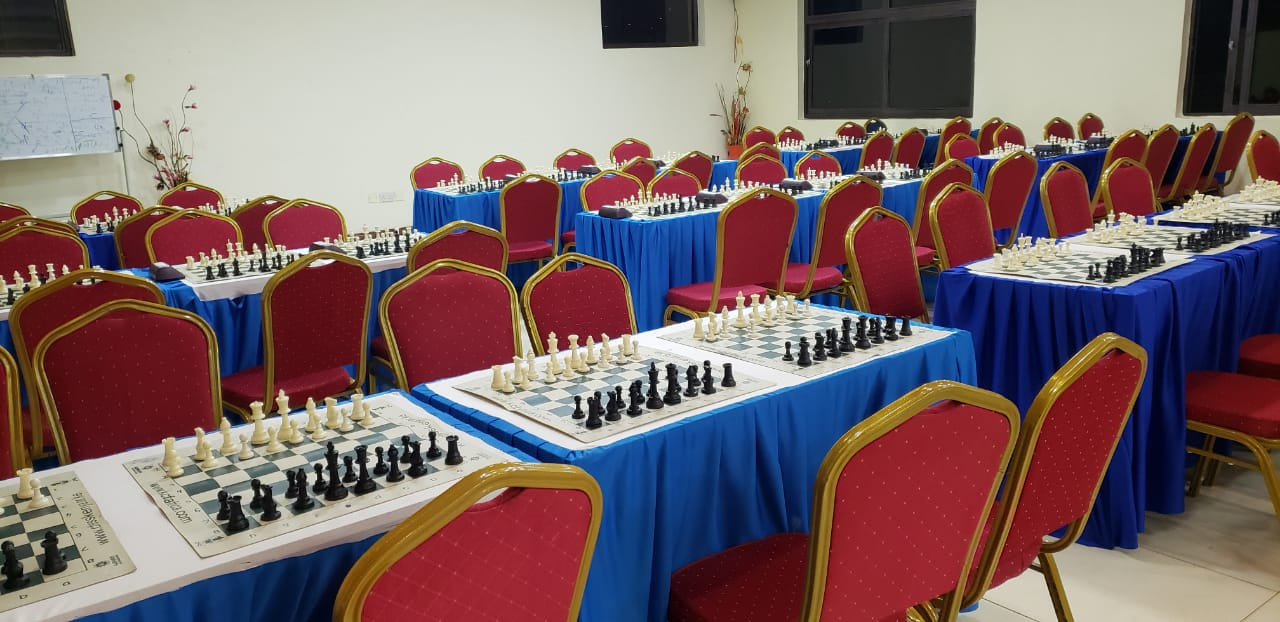
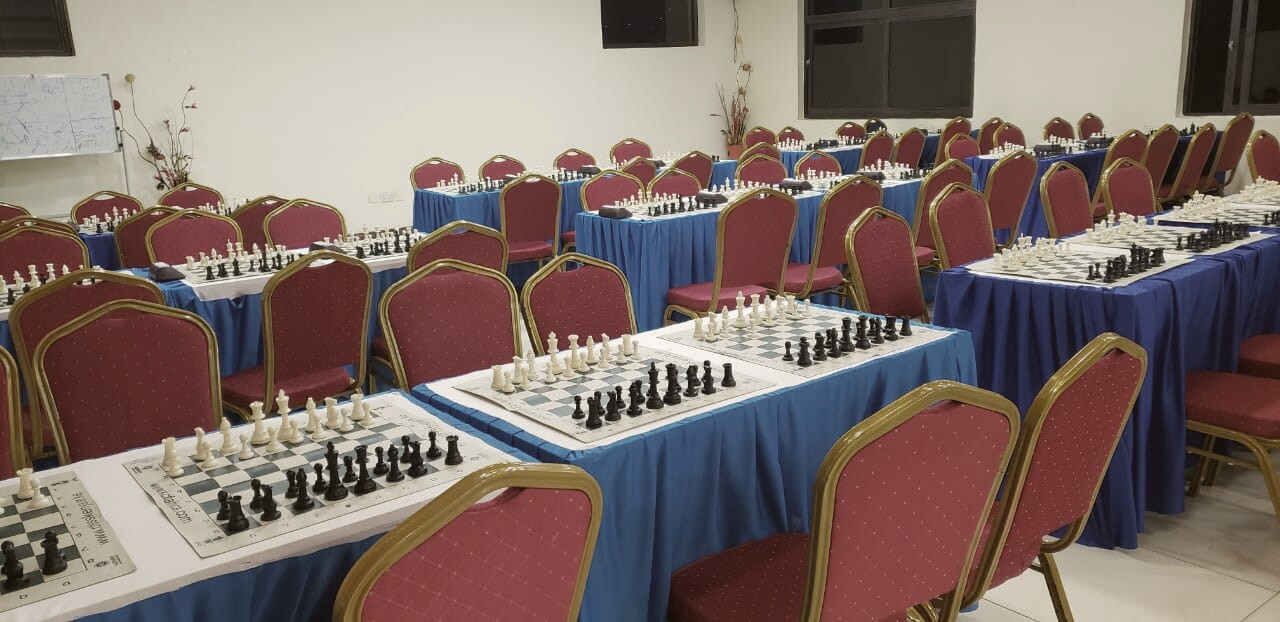
Photographs: harmonise the hall set, and stop repeating a picture on a page
* tournament-prep-01…10 now carry one light treatment — saturation 55% with a
  6% gold tone — so the royal-blue tablecloths and red chairs of the real hall
  photographs sit with the navy-and-gold palette instead of fighting it. The
  untouched originals are kept privately outside the site;
* product photographs (the mats, the shelf items and the board still-life) are
  left at their true colours on purpose, because a buyer needs to see what the
  product looks like;
* two of the hall files were byte-identical stand-ins (tournament-prep-06 was
  tournament-prep-01, tournament-prep-10 was tournament-prep-02), which made a
  page show the same picture twice — in the programme-card row on the home
  page, in the about-page hero and gallery, in the tournaments photo wall, in
  the live schedule row and in the coaching track cards. Those slots now use
  different photographs, and the two tournament-wall captions were reworded to
  match their new tiles.

diff --git a/index.html b/index.html
@@ -161,7 +161,7 @@
             <div class="fix-cta"><a href="tournaments.html#register">Enter a learner <span class="ion-ios-arrow-round-forward"></span></a></div>
           </div>
           <div class="fix-card ftco-animate">
-            <div class="thumb" style="background-image: url('assets/tournament-prep-06.jpg');"></div>
+            <div class="thumb" style="background-image: url('assets/tournament-prep-03.jpg');"></div>
             <span class="chip chip-live"><span class="live-dot"></span> Weekly</span>
             <div class="body">
               <h3><a href="live.html">Saturday Academy Club</a></h3>
@@ -387,7 +387,7 @@
 						</div>
 					</div>
 					<div class="col-md-6 course d-lg-flex ftco-animate">
-						<div class="img" style="background-image: url(assets/tournament-prep-10.jpg);"></div>
+						<div class="img" style="background-image: url(assets/chess-materials.jpg);"></div>
 						<div class="text bg-light p-4">
 							<h3><a href="coaching.html">Private Lessons</a></h3>
 							<p class="subheading"><span>Runs:</span> 1-on-1 · home, school or club</p>
@@ -414,7 +414,7 @@
 			</div>
 		</section>
 
-		<section class="ftco-section ftco-counter img" id="section-counter" style="background-image: url(assets/mats-rubber.jpg);" data-stellar-background-ratio="0.5">
+		<section class="ftco-section ftco-counter img" id="section-counter" style="background-image: url(assets/club/vice-chairperson-out-of-town.jpg);" data-stellar-background-ratio="0.5">
     	<div class="overlay"></div>
 		<div class="container">
     		<div class="row justify-content-center mb-5 pb-2">
@@ -533,7 +533,7 @@
       </div>
     </section>
 
-    <section class="ftco-section ftco-consult ftco-no-pt ftco-no-pb" style="background-image: url(assets/chess-materials.jpg);" data-stellar-background-ratio="0.5">
+    <section class="ftco-section ftco-consult ftco-no-pt ftco-no-pb" style="background-image: url(assets/shelf-kit.jpg);" data-stellar-background-ratio="0.5">
     	<div class="container">
     		<div class="row justify-content-end">
     			<div class="col-md-6 py-5 px-md-5 bg-primary">
@@ -822,7 +822,7 @@
             <div class="ftco-footer-widget mb-5">
               <h2 class="ftco-heading-2">Latest from the Academy</h2>
               <div class="block-21 mb-4 d-flex">
-                <a href="tournaments.html" class="blog-img mr-4" style="background-image: url(assets/tournament-prep-01.jpg);"></a>
+                <a href="tournaments.html" class="blog-img mr-4" style="background-image: url(assets/shelf-clock.jpg);"></a>
                 <div class="text">
                   <h3 class="heading"><a href="tournaments.html">Kericho Inter-Schools Open · registration closes 19 Sep</a></h3>
                   <div class="meta">

diff --git a/tournaments.html b/tournaments.html
@@ -267,7 +267,7 @@
 						<a href="assets/tournament-prep-04.jpg" class="gallery image-popup img d-flex align-items-center gallery-cap" style="background-image: url(assets/tournament-prep-04.jpg);"><span class="cap">Clock practice</span><div class="icon mb-4 d-flex align-items-center justify-content-center"><span class="fas fa-search-plus"></span></div></a>
 					</div>
 					<div class="col-md-3 ftco-animate">
-						<a href="assets/tournament-prep-06.jpg" class="gallery image-popup img d-flex align-items-center gallery-cap" style="background-image: url(assets/tournament-prep-06.jpg);"><span class="cap">Tables set, clocks out</span><div class="icon mb-4 d-flex align-items-center justify-content-center"><span class="fas fa-search-plus"></span></div></a>
+						<a href="assets/tournament-prep-03.jpg" class="gallery image-popup img d-flex align-items-center gallery-cap" style="background-image: url(assets/tournament-prep-03.jpg);"><span class="cap">The demo board, ready</span><div class="icon mb-4 d-flex align-items-center justify-content-center"><span class="fas fa-search-plus"></span></div></a>
 					</div>
 					<div class="col-md-3 ftco-animate">
 						<a href="assets/tournament-prep-05.jpg" class="gallery image-popup img d-flex align-items-center gallery-cap" style="background-image: url(assets/tournament-prep-05.jpg);"><span class="cap">Row after row</span><div class="icon mb-4 d-flex align-items-center justify-content-center"><span class="fas fa-search-plus"></span></div></a>
@@ -282,7 +282,7 @@
 						<a href="assets/tournament-prep-07.jpg" class="gallery image-popup img d-flex align-items-center gallery-cap" style="background-image: url(assets/tournament-prep-07.jpg);"><span class="cap">Ready for round one</span><div class="icon mb-4 d-flex align-items-center justify-content-center"><span class="fas fa-search-plus"></span></div></a>
 					</div>
 					<div class="col-md-3 ftco-animate">
-						<a href="assets/tournament-prep-10.jpg" class="gallery image-popup img d-flex align-items-center gallery-cap" style="background-image: url(assets/tournament-prep-10.jpg);"><span class="cap">The floor, mid-morning</span><div class="icon mb-4 d-flex align-items-center justify-content-center"><span class="fas fa-search-plus"></span></div></a>
+						<a href="assets/chess-materials.jpg" class="gallery image-popup img d-flex align-items-center gallery-cap" style="background-image: url(assets/chess-materials.jpg);"><span class="cap">Every board, checked</span><div class="icon mb-4 d-flex align-items-center justify-content-center"><span class="fas fa-search-plus"></span></div></a>
 					</div>
         </div>
     	</div>

diff --git a/shop.html b/shop.html
@@ -53,7 +53,7 @@
 	  </nav>
     <!-- END nav -->
 
-    <section class="hero-wrap hero-wrap-2" style="background-image: url('assets/chess-materials.jpg');">
+    <section class="hero-wrap hero-wrap-2" style="background-image: url('assets/mats-vinyl.jpg');">
       <div class="overlay"></div>
       <div class="container">
         <div class="row no-gutters slider-text align-items-center justify-content-center">
@@ -181,7 +181,7 @@
 			</div>
 		</section>
 
-		<section class="ftco-intro" style="background-image: url(assets/shelf-workbook.jpg);" data-stellar-background-ratio="0.5">
+		<section class="ftco-intro" style="background-image: url(assets/mats-rubber.jpg);" data-stellar-background-ratio="0.5">
 			<div class="overlay"></div>
 			<div class="container">
 				<div class="row">
@@ -230,7 +230,7 @@
                 </div>
               </div>
               <div class="block-21 mb-5 d-flex">
-                <a href="play.html" class="blog-img mr-4" style="background-image: url(assets/shelf-clock.jpg);"></a>
+                <a href="play.html" class="blog-img mr-4" style="background-image: url(assets/tournament-prep-05.jpg);"></a>
                 <div class="text">
                   <h3 class="heading"><a href="play.html">Daily warm-up: the puzzle of the day is live on the Play page</a></h3>
                   <div class="meta">

diff --git a/about.html b/about.html
@@ -220,7 +220,7 @@
 					<div class="col-md-6 ftco-animate">
 						<div class="staff">
 							<div class="img-wrap d-flex align-items-stretch">
-								<div class="img align-self-stretch" style="background-image: url(assets/tournament-prep-01.jpg);"></div>
+								<div class="img align-self-stretch" style="background-image: url(assets/tournament-prep-08.jpg);"></div>
 							</div>
 							<div class="text pt-3 text-center">
 								<h3>The Squads</h3>
@@ -355,7 +355,7 @@
             <div class="ftco-footer-widget mb-5">
               <h2 class="ftco-heading-2">Latest from the Academy</h2>
               <div class="block-21 mb-4 d-flex">
-                <a href="tournaments.html" class="blog-img mr-4" style="background-image: url(assets/tournament-prep-01.jpg);"></a>
+                <a href="tournaments.html" class="blog-img mr-4" style="background-image: url(assets/shelf-clock.jpg);"></a>
                 <div class="text">
                   <h3 class="heading"><a href="tournaments.html">Kericho Inter-Schools Open · registration closes 19 Sep</a></h3>
                   <div class="meta">

diff --git a/coaching.html b/coaching.html
@@ -165,7 +165,7 @@
         </div>
 				<div class="row">
 					<div class="col-md-6 course d-lg-flex ftco-animate">
-						<div class="img" style="background-image: url(assets/tournament-prep-06.jpg);"></div>
+						<div class="img" style="background-image: url(assets/chess-materials.jpg);"></div>
 						<div class="text bg-light p-4">
 							<h3><a href="contact.html">School Coaching</a></h3>
 							<p class="subheading"><span>Group:</span> term-based · in-school</p>
@@ -189,7 +189,7 @@
 						</div>
 					</div>
 					<div class="col-md-6 course d-lg-flex ftco-animate">
-						<div class="img" style="background-image: url(assets/tournament-prep-10.jpg);"></div>
+						<div class="img" style="background-image: url(assets/tournament-prep-03.jpg);"></div>
 						<div class="text bg-light p-4">
 							<h3><a href="live.html">Saturday Academy Club</a></h3>
 							<p class="subheading"><span>Weekly:</span> Saturdays · 10:00 EAT</p>

diff --git a/live.html b/live.html
@@ -176,7 +176,7 @@
 					</div>
 					<div class="col-md-4 ftco-animate mb-4">
             <div class="sched-card h-100">
-              <div class="sched-img" style="background-image: url(assets/tournament-prep-06.jpg);"></div>
+              <div class="sched-img" style="background-image: url(assets/tournament-prep-08.jpg);"></div>
               <div class="sched-body">
                 <span class="sched-when">Every Saturday · 10:00 EAT</span>
                 <h3>Saturday Club Challenge · Board 1</h3>

diff --git a/contact.html b/contact.html
@@ -53,7 +53,7 @@
 	  </nav>
     <!-- END nav -->
 
-    <section class="hero-wrap hero-wrap-2" style="background-image: url('assets/tournament-prep-01.jpg');">
+    <section class="hero-wrap hero-wrap-2" style="background-image: url('assets/tournament-prep-07.jpg');">
       <div class="overlay"></div>
       <div class="container">
         <div class="row no-gutters slider-text align-items-center justify-content-center">

diff --git a/README.md b/README.md
@@ -94,6 +94,12 @@ the site.
   updates; the Tournament Floor wall uses tournament-prep 01/03/04/07/08 plus the mats.
 - **Mats (uploaded):** `assets/mats-vinyl.jpg` and `assets/mats-rubber.jpg`, extracted from
   `merchandise.zip` and used on the club shelf and in the photo wall.
+- **Tone:** the tournament-hall photographs (`tournament-prep-01…10`) carry one light
+  harmonisation — saturation 55% with a 6% gold tone — so the royal-blue tablecloths and red
+  chairs sit with the navy-and-gold palette instead of fighting it. The untouched originals
+  are kept privately outside the site. Product photographs (the mats, the shelf items and the
+  board still-life) are left at their true colours, because a buyer needs to see what the
+  product actually looks like.
 - **Club trips (uploaded):** `assets/club/vice-chairperson-on-the-road.jpg` and
   `assets/club/vice-chairperson-out-of-town.jpg`, cropped from the two 8 October uploads
   (`Mr. Ochieng 2.jpeg` and `Mr. Ochieng 3.jpeg`), shown in the about-page gallery.
